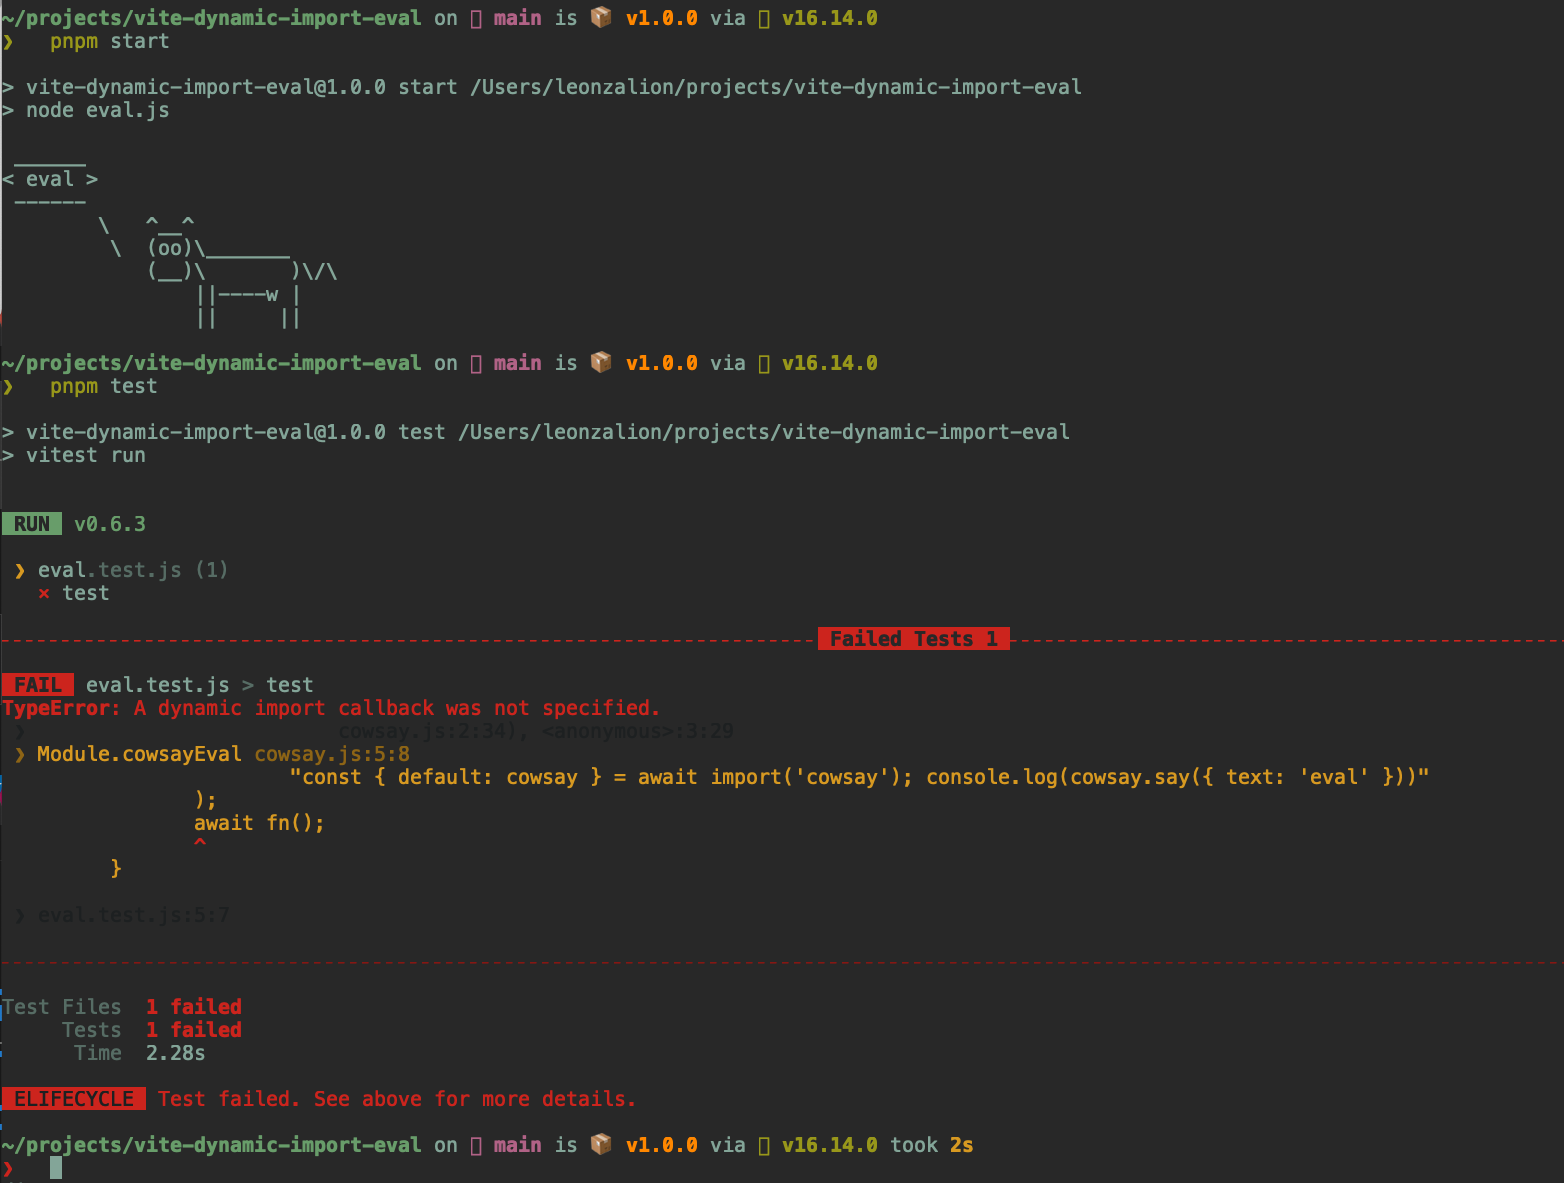
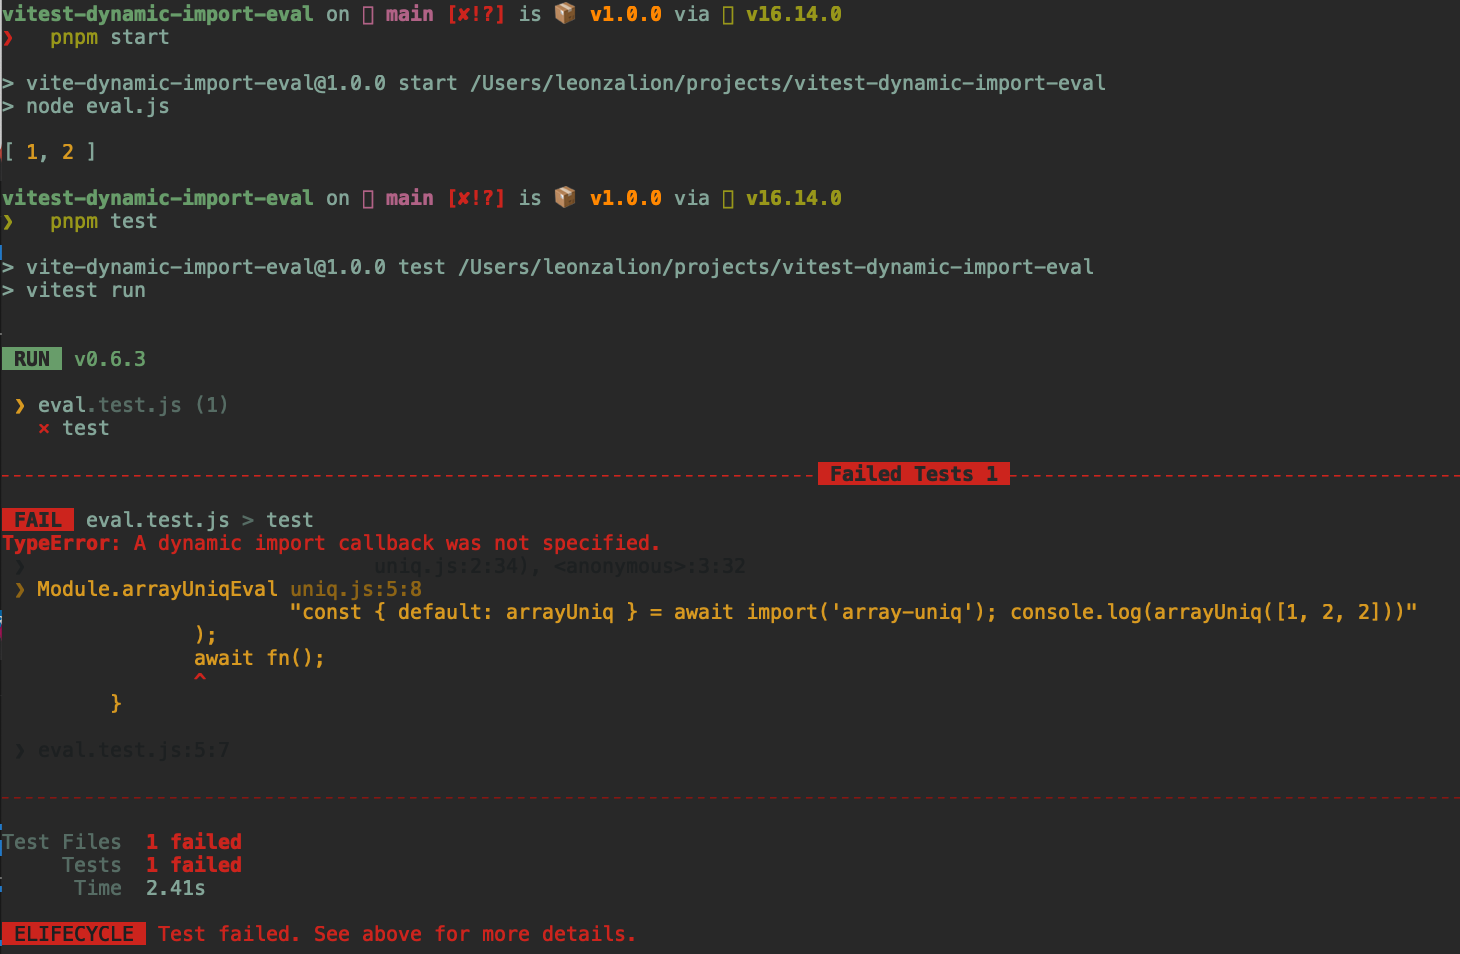
use less obscure package

diff --git a/uniq.js b/uniq.js
@@ -1,0 +1,6 @@
+export async function arrayUniqEval() {
+	const fn = async function () {}.constructor(
+		"const { default: arrayUniq } = await import('array-uniq'); console.log(arrayUniq([1, 2, 2]))"
+	);
+	await fn();
+}

diff --git a/eval.test.js b/eval.test.js
@@ -1,6 +1,6 @@
 import { test } from "vitest";
-import { cowsayEval } from "./cowsay.js";
+import { arrayUniqEval } from "./uniq.js";
 
 test("test", async () => {
-	await cowsayEval();
+	await arrayUniqEval();
 });

diff --git a/eval.js b/eval.js
@@ -1,2 +1,2 @@
-import { cowsayEval } from "./cowsay.js";
-await cowsayEval();
+import { arrayUniqEval } from "./uniq.js";
+await arrayUniqEval();
